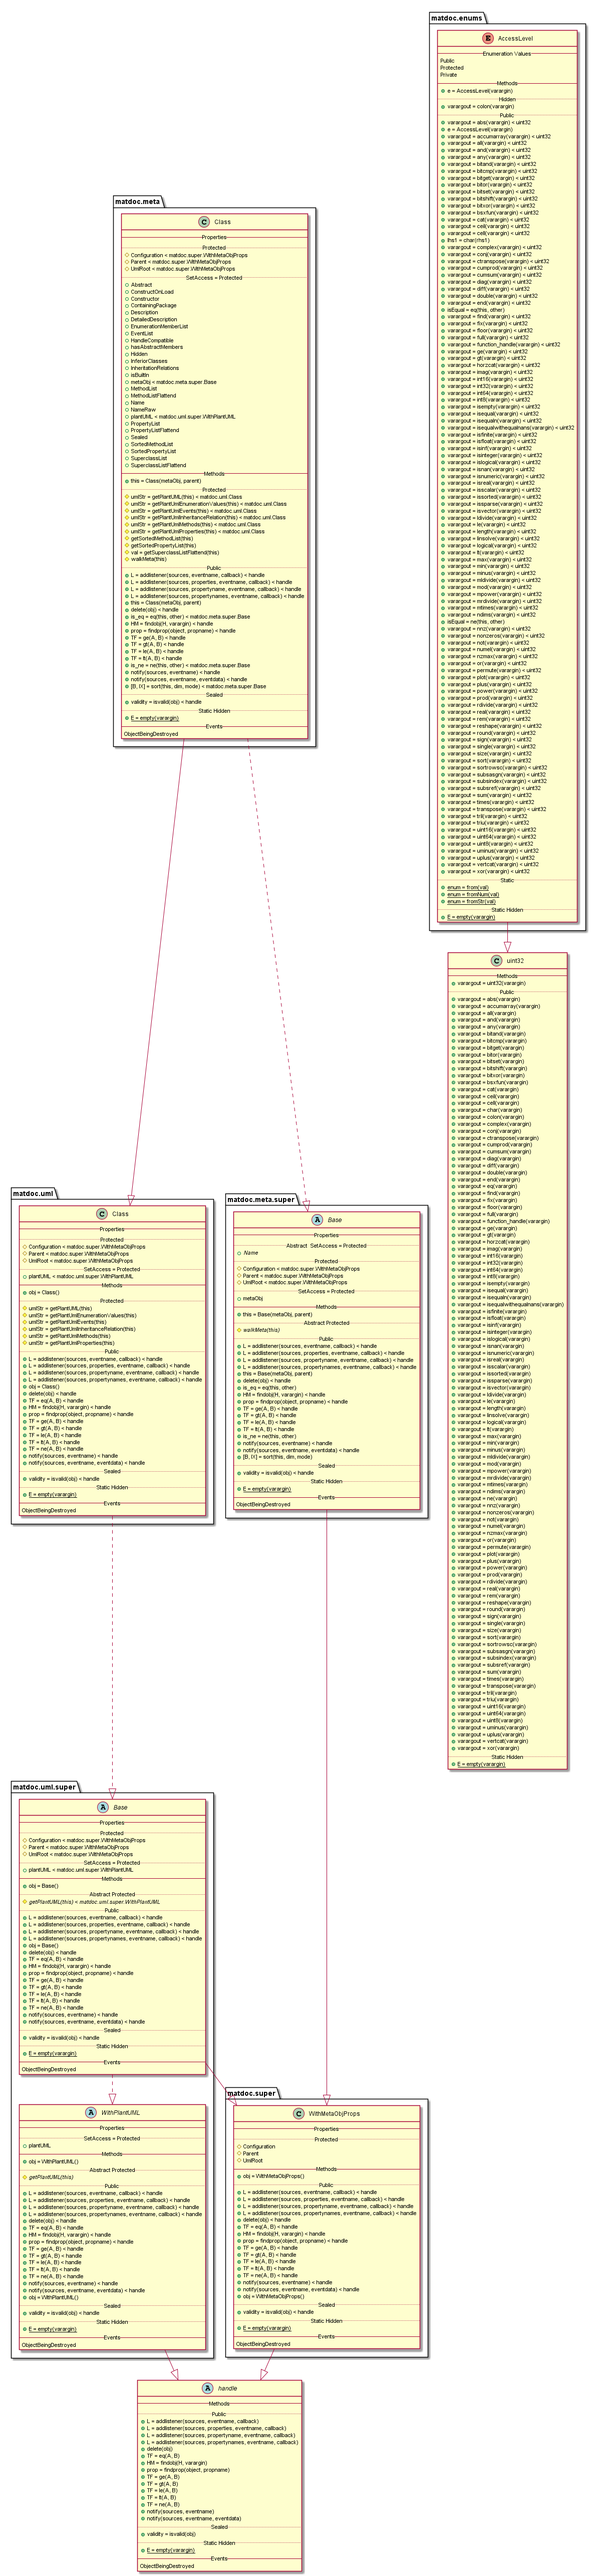
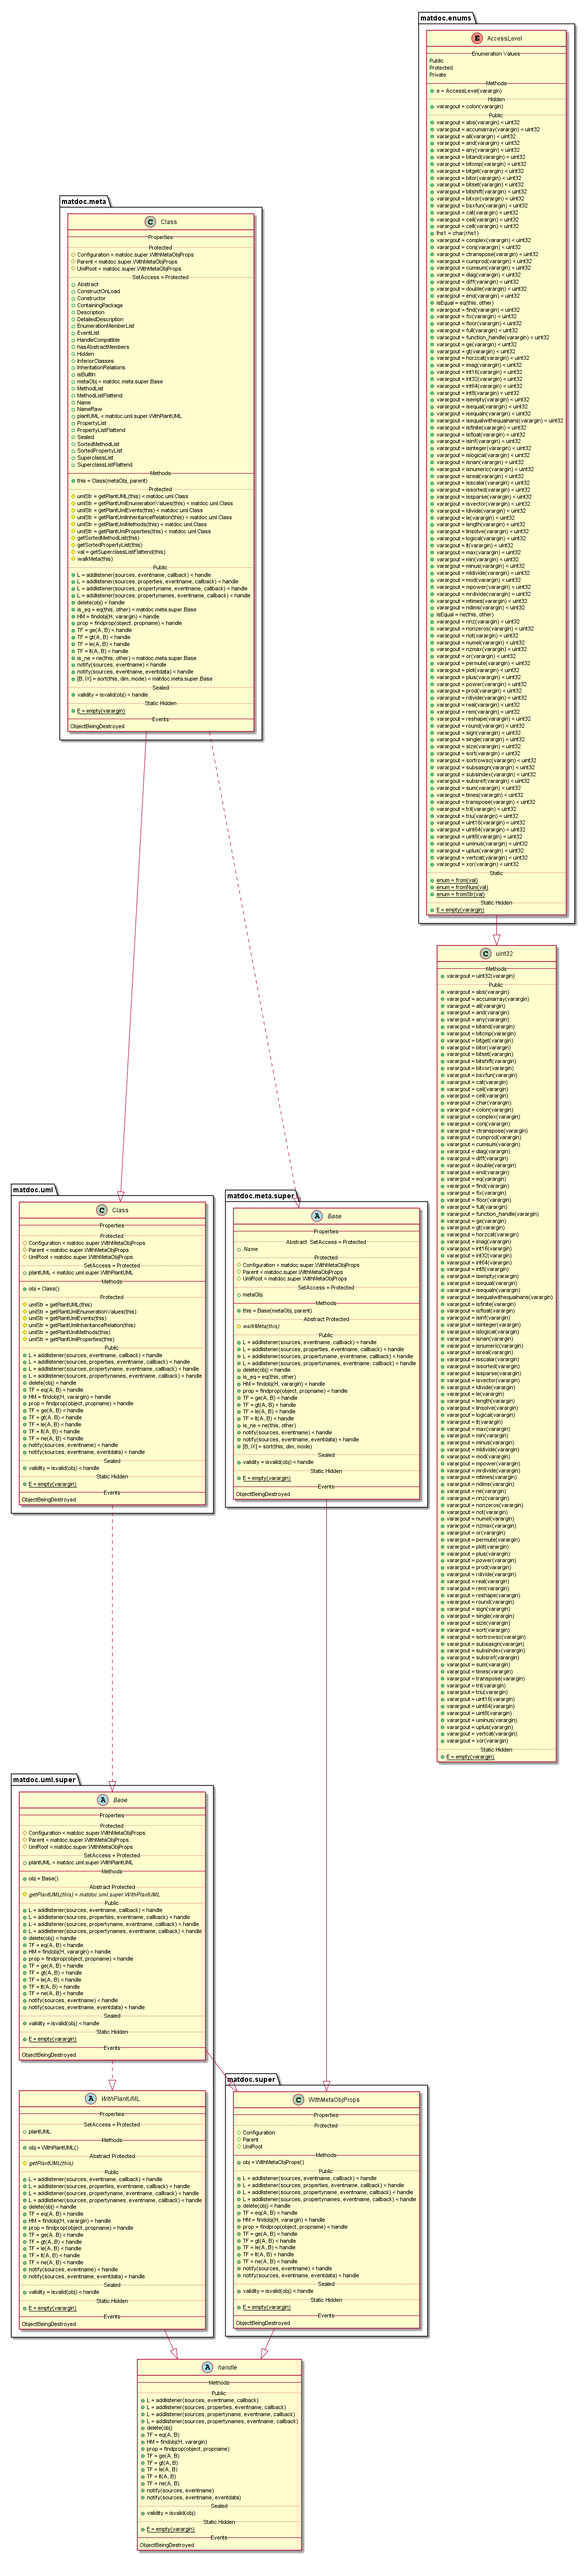
+matdoc/+meta/Method.m: - fixed a bug where the constructor would show up in the list of public methods
other:
- updated docs (see above changes)

Changed region(s): [[0.0308, 0.0, 0.9855, 0.7173], [0.0, 0.6862, 0.7391, 1.0], [0.0924, 0.0624, 0.5543, 0.3119]]

diff --git a/+matdoc/+meta/Method.m b/+matdoc/+meta/Method.m
@@ -13,6 +13,9 @@ classdef Method < matdoc.meta.super.Base & ...
         % The access level of the method
         Access;
         
+        % Flag if the method is the constructor of its DefiningClass
+        isConstructor;
+        
     end % properties (SetAccess = protected)
     
     %% PROPERTIES: DEPENDENT, SETACCESS = PROTECTED
@@ -47,9 +50,6 @@ classdef Method < matdoc.meta.super.Base & ...
         
         % The class defining the method
         DefiningClass;
-        
-        % Flag if the method is the constructor of its DefiningClass
-        isConstructor;
         
     end % properties (SetAccess = protected)
     
@@ -187,17 +187,6 @@ classdef Method < matdoc.meta.super.Base & ...
             
         end % function val = get.DefiningClass(this)
         
-        %% - val = get.isConstructor()
-        function val = get.isConstructor(this)
-            % function val = get.isConstructor(this)
-            %
-            % The getter method will return the private member of the property
-            % set.
-            
-            val = strcmp(this.Name, this.metaObj.DefiningClass.Name);
-            
-        end % function val = get.isConstructor(this)
-        
     end % methods
     
     %% METHODS: PROTECTED
@@ -210,11 +199,30 @@ classdef Method < matdoc.meta.super.Base & ...
             % This method will make sure the sub meta classes of the
             % metaObj are also wrapped by the meta classes of this package.
             
-            % The access level of the method
+            % is this method a setter or getter function? or a function of
+            % a class package?
             if isa(this.metaObj, 'function_handle')
+                % Access
                 this.Access = matdoc.enums.AccessLevel.Public;
+                % isConstructor
+                this.isConstructor = false;
             else % if isa(this.metaObj, 'function_handle')
+                
+                % Access %%%%%%%%%%%%%%%%%%%%%%%%%%%%%%%%%%%%%%%%%%%%%%%%%%
                 this.Access = matdoc.enums.AccessLevel.from(this.metaObj.Access);
+                
+                % isConstructor %%%%%%%%%%%%%%%%%%%%%%%%%%%%%%%%%%%%%%%%%%%
+                if ~isempty(this.metaObj.DefiningClass)
+                    % get the raw name of the defining class
+                    defClassName = this.metaObj.DefiningClass.Name;
+                    nameParts = strsplit(defClassName, '.');
+                    
+                    % check if the defining class name is the same as this methods
+                    % name
+                    this.isConstructor = strcmp(this.Name, nameParts{end});
+                else % if ~isempty(this.metaObj.DefiningClass)
+                    this.isConstructor = false;
+                end % if ~isempty(this.metaObj.DefiningClass)
             end % if isa(this.metaObj, 'function_handle')
             
         end % function walkMeta(this)
